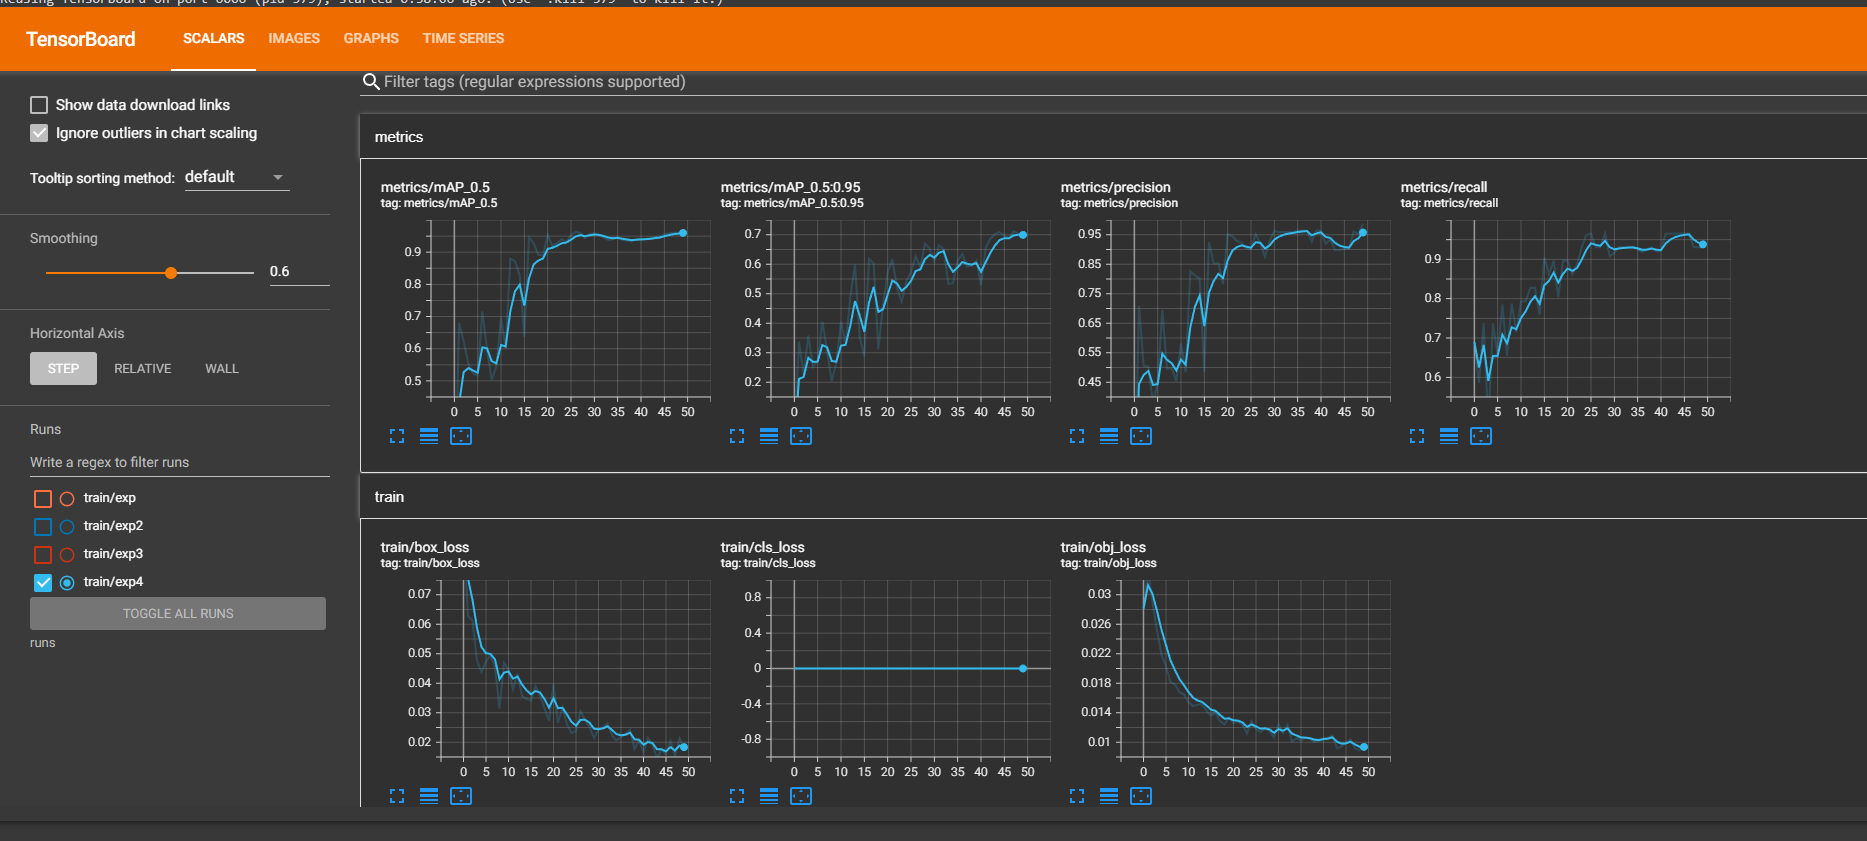
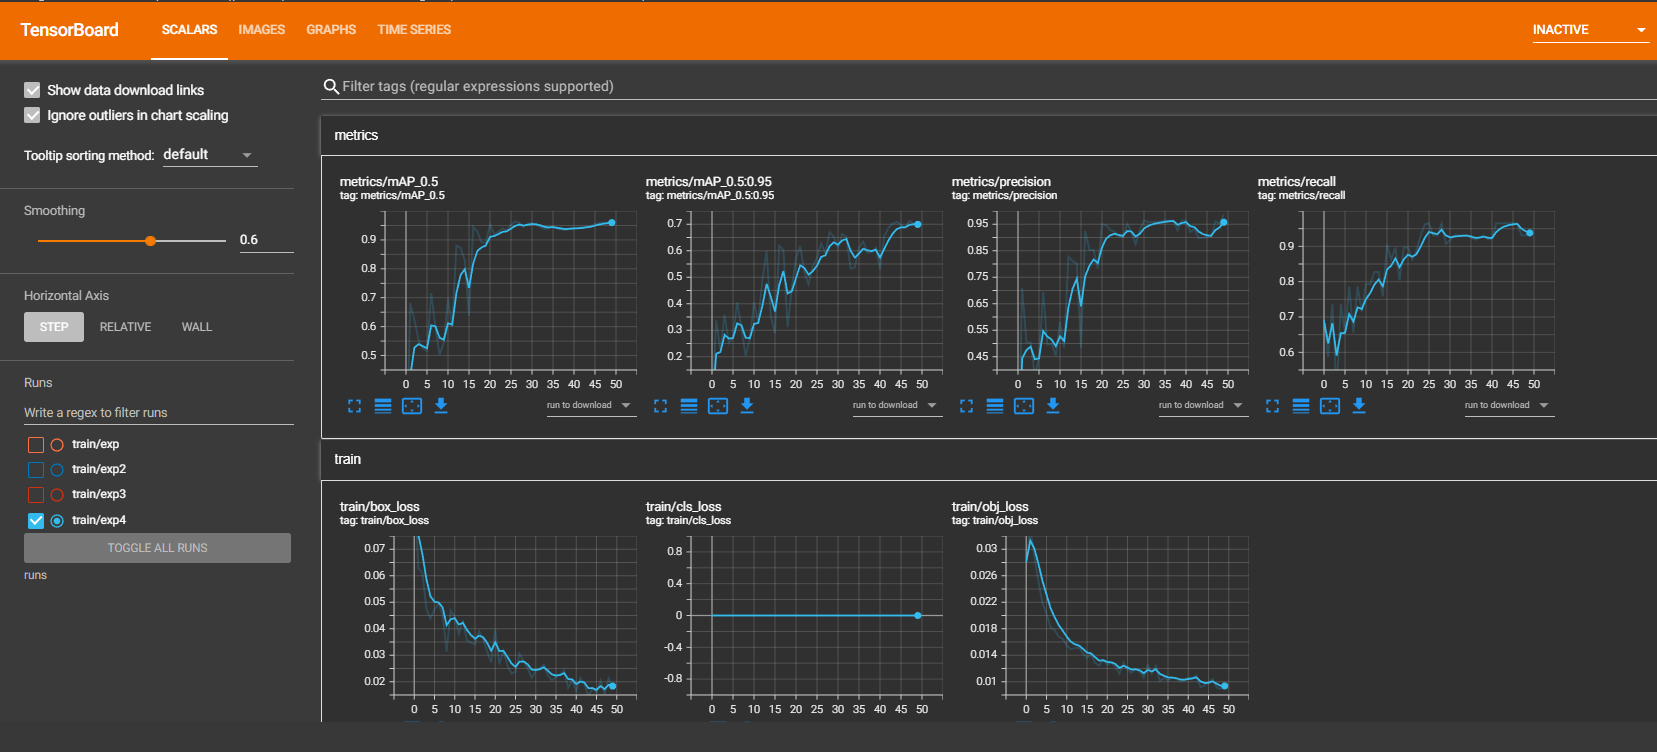
readme

diff --git a/README.md b/README.md
@@ -146,7 +146,7 @@ El asistente determinara que es la misma persona.
 ### Notas de implementación comando *Detecta Objetos*:
 
 1. El asistente hace uso de YOLOv5 haciendo uso del modelo "x"
-2. Se entreno el modelo con un dataset de imagenes generado por mi mismo, el cual por la premura es pequeño una volumen de 150 imagenes para el training y 30 imagenes para su validación. (data.zip)
+2. Se entreno el modelo con un dataset de imagenes generado por mi mismo, el cual por la premura es pequeño una volumen de 150 imagenes para el training y 30 imagenes para su validación. (/yolo/data.zip)
 3. Se hizo uso del YOLOv5 Custom Training Notebook para el entrenamiento del dataset custom con YOLOv5:
 
 https://colab.research.google.com/github/roboflow-ai/yolov5-custom-training-tutorial/blob/main/yolov5-custom-training.ipynb
@@ -159,5 +159,8 @@ https://colab.research.google.com/github/roboflow-ai/yolov5-custom-training-tuto
   <img src="https://github.com/badillo-christian/praxthon_2022/blob/main/blob/master/yolo_training.png?raw=true" alt="yolo_training.jpg"/>
 </p>
 
+<p align="center">
+  <img src="https://github.com/badillo-christian/praxthon_2022/blob/main/blob/master/yolo_tensorboard.png?raw=true" alt="yolo_training.jpg"/>
+</p>
 
 
